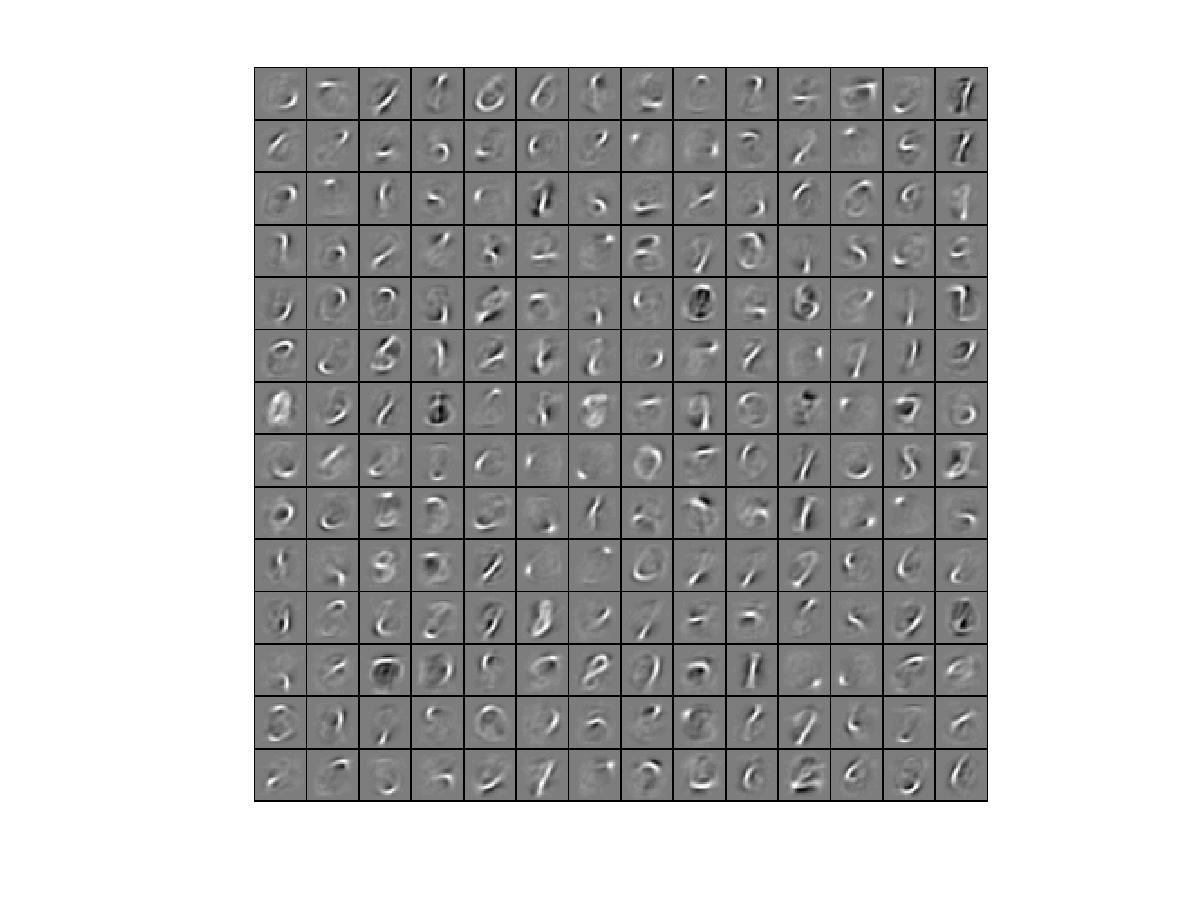
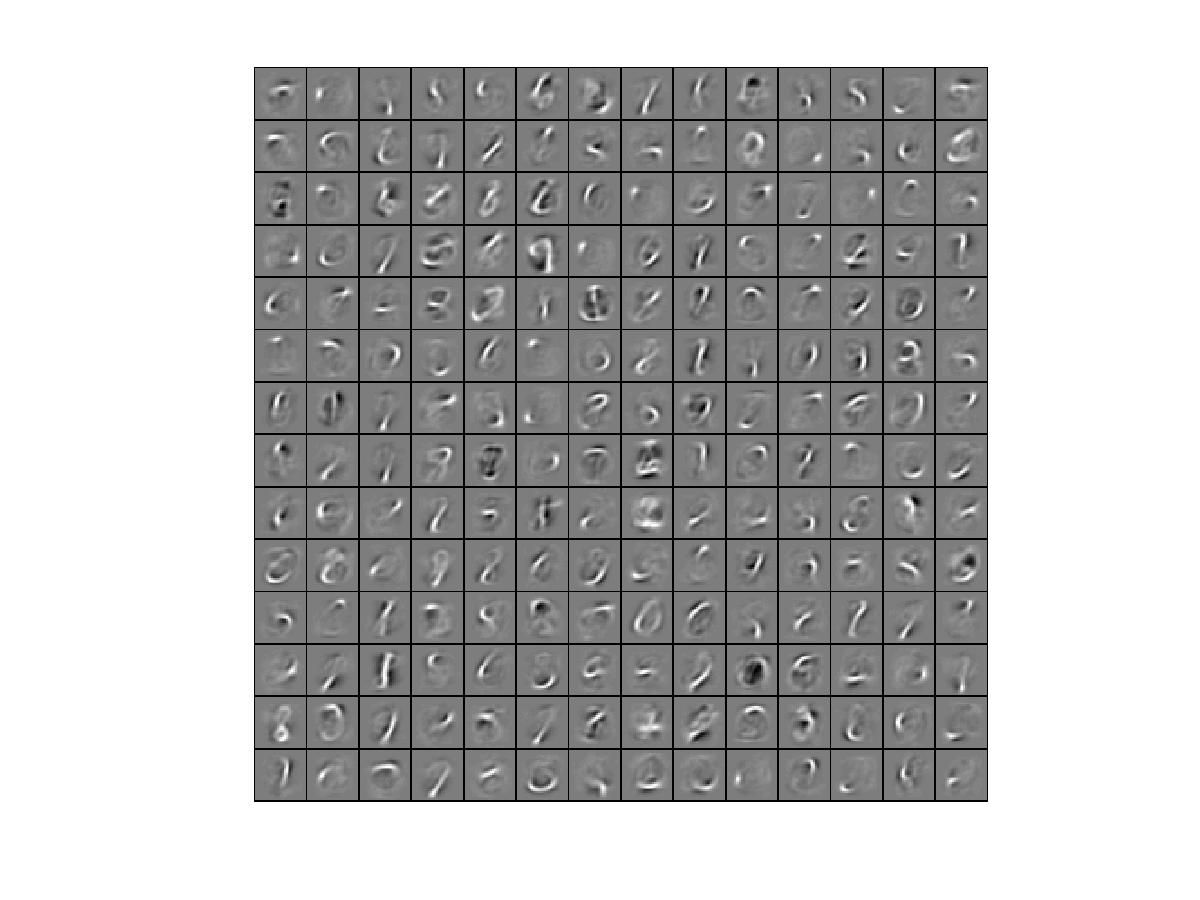
working on image pca and whitening

diff --git a/matlab/UFLDL/pca_exercise/pca_gen.m b/matlab/UFLDL/pca_exercise/pca_gen.m
@@ -18,6 +18,8 @@ display_network(x(:,randsel));
 
 % -------------------- YOUR CODE HERE -------------------- 
 
+avg = mean(x);
+x = x-repmat(avg, size(x,1), 1);
 %%================================================================
 %% Step 1a: Implement PCA to obtain xRot
 %  Implement PCA to obtain xRot, the matrix in which the data is expressed
@@ -25,8 +27,11 @@ display_network(x(:,randsel));
 
 
 % -------------------- YOUR CODE HERE -------------------- 
-xRot = zeros(size(x)); % You need to compute this
+sigma = x * x' / size(x, 2);
 
+[U S V] = svd(sigma);
+
+xRot = U' * x;
 
 %%================================================================
 %% Step 1b: Check your implementation of PCA
@@ -38,7 +43,7 @@ xRot = zeros(size(x)); % You need to compute this
 %  diagonal (non-zero entries) against a blue background (zero entries).
 
 % -------------------- YOUR CODE HERE -------------------- 
-covar = zeros(size(x, 1)); % You need to compute this
+covar = cov(U);
 
 % Visualise the covariance matrix. You should see a line across the
 % diagonal against a blue background.
@@ -51,7 +56,17 @@ imagesc(covar);
 %  to retain at least 99% of the variance.
 
 % -------------------- YOUR CODE HERE -------------------- 
-k = 0; % Set k accordingly
+k=0;
+lamdas = diag(S);
+var_max = sum(lamdas) * 0.99;
+var_subtotal = 0;
+for i=1:size(lamdas)
+	var_subtotal += lamdas(i);
+	if var_subtotal >= var_max
+		k=i;
+		break;
+	end
+end
 
 
 %%================================================================
@@ -69,7 +84,9 @@ k = 0; % Set k accordingly
 %  correspond to dimensions with low variation.
 
 % -------------------- YOUR CODE HERE -------------------- 
-xHat = zeros(size(x));  % You need to compute this
+xTilda = xRot; 
+xTilda(k+1:end, :) = 0;
+xHat = U * xTilda;
 
 
 % Visualise the data, and compare it to the raw data
@@ -88,7 +105,7 @@ display_network(x(:,randsel));
 %  xPCAWhite. 
 
 epsilon = 0.1;
-xPCAWhite = zeros(size(x));
+xPCAWhite = xRot ./ repmat(sqrt(diag(S) + epsilon), 1, size(xRot, 2));
 
 % -------------------- YOUR CODE HERE -------------------- 
 
@@ -109,25 +126,28 @@ xPCAWhite = zeros(size(x));
 %  becoming smaller.
 
 % -------------------- YOUR CODE HERE -------------------- 
+covar = xPCAWhite * xPCAWhite' / size(xPCAWhite, 2);
 
 % Visualise the covariance matrix. You should see a red line across the
 % diagonal against a blue background.
+
+
 figure('name','Visualisation of covariance matrix');
 imagesc(covar);
 
-%%================================================================
-%% Step 5: Implement ZCA whitening
-%  Now implement ZCA whitening to produce the matrix xZCAWhite. 
-%  Visualise the data and compare it to the raw data. You should observe
-%  that whitening results in, among other things, enhanced edges.
+% %%================================================================
+% %% Step 5: Implement ZCA whitening
+% %  Now implement ZCA whitening to produce the matrix xZCAWhite. 
+% %  Visualise the data and compare it to the raw data. You should observe
+% %  that whitening results in, among other things, enhanced edges.
 
-xZCAWhite = zeros(size(x));
+% xZCAWhite = zeros(size(x));
 
-% -------------------- YOUR CODE HERE -------------------- 
+% % -------------------- YOUR CODE HERE -------------------- 
 
-% Visualise the data, and compare it to the raw data.
-% You should observe that the whitened images have enhanced edges.
-figure('name','ZCA whitened images');
-display_network(xZCAWhite(:,randsel));
-figure('name','Raw images');
-display_network(x(:,randsel));
+% % Visualise the data, and compare it to the raw data.
+% % You should observe that the whitened images have enhanced edges.
+% figure('name','ZCA whitened images');
+% display_network(xZCAWhite(:,randsel));
+% figure('name','Raw images');
+% display_network(x(:,randsel));
